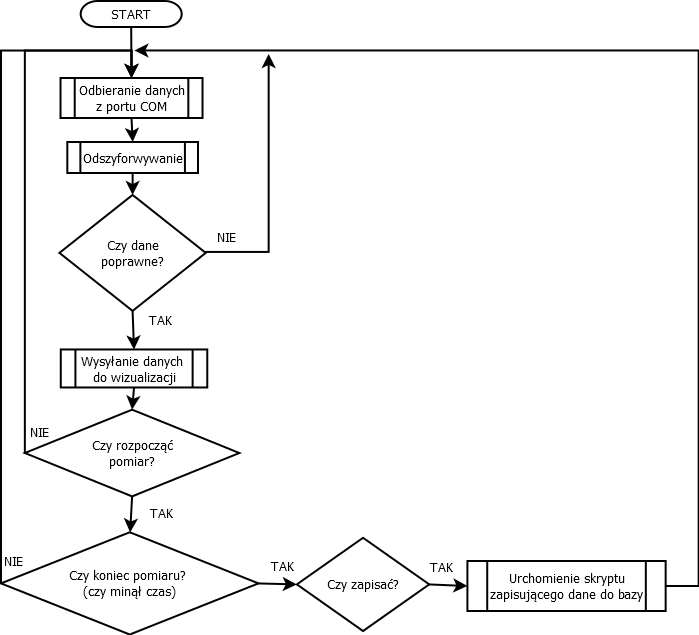
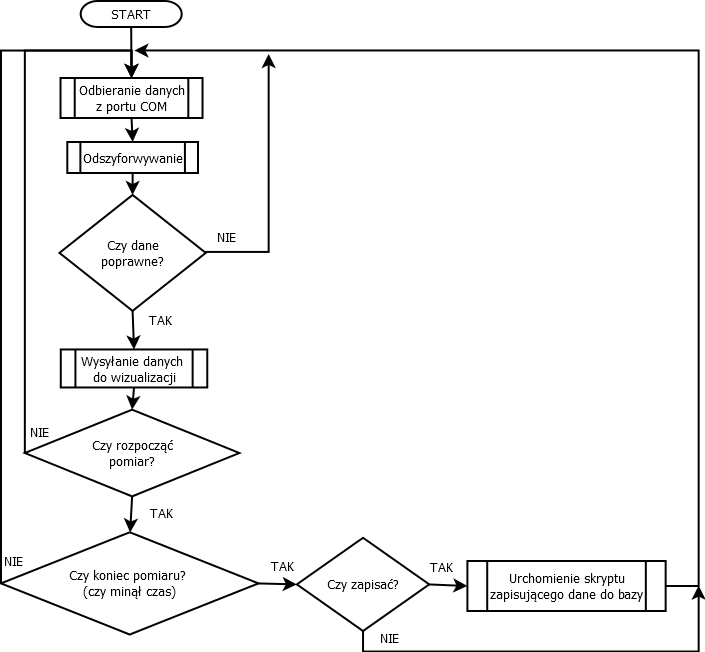
ze schematem programu

Changed region(s): [[0.0, 0.0, 1.0, 1.0], [0.0901, 0.0, 0.1202, 0.0299]]

diff --git a/specyfikacja_zadan.tex b/specyfikacja_zadan.tex
@@ -35,7 +35,7 @@
      \begin{center}
 
     Prowadzący:
-  dr inż. Krzysztof Arent %dorobić inż mgr itd
+  dr inż. Krzysztof Arent
     \end{center}
 
     \vspace*{\stretch{6}}
@@ -51,7 +51,7 @@ Dorota Gidel\\
 Katarzyna Wądrzyk\\
 Ada Weiss\\
 Małgorzata Witka-Jeżewska\\
- }%wpisać indeks
+ }
 \title{SensGlove}
 
 \begin{document}
@@ -189,7 +189,7 @@ Osaba przydzielona do zadania: Dawid Brząkała \\
 Interfejs będzie miał za zadanie odczyt wartości z czujników zgięcia i nacisku z rękawiczki oraz czujników biopotencjałów i przesyłał je w odpowiednim formacie do komputera poprzez kabel USB i wirtualny port COM. Sygnały z czujników zostaną wzmocnione przez układ ze wzmacniaczami operacyjnymi, który również zadba o to, aby wartości sygnałów wyjściowych mieściły się w zakresie pracy przetwornika ADC mikrokontrolera (0 - 3.3V). Zasilanie układu pochodzić będzie ze złącza USB.
 \subsubsection{Schemat ideowy}
 % plik "schemat ideowy interfejsu.png" nie wiem jak się wstawia obrazki
-\begin{figure}[ht!]
+\begin{figure}[h!]
 \centering
 \includegraphics[width=6cm]{schemat_ideowy_interfejsu.png}
 \label{fig:interfejs}
@@ -201,7 +201,7 @@ Interfejs będzie miał za zadanie odczyt wartości z czujników zgięcia i naci
 \subsubsection{Potrzebne elementy}
 
 Lista elementów wraz z przewidywanymi kosztami została przedstawiona w tabeli \ref{tab:interfejs}.
-\begin{table}[ht!]
+\begin{table}[h!]
 \centering
 \caption{ Lista potrzebnych elementów}
 
@@ -223,19 +223,37 @@ razem & & 131.41zł \\\hline
 
 \subsubsection{Kryteria ewaluacji}
 Aby sprawdzić poprawność odczytu sygnałów przez przetworniki ADC czujniki będą symulowane poprzez potencjometry, a uzyskane wyniki przesłane do komputera. Poprawność samej transmisji sprawdzona zostanie poprzez wysyłanie zaprogramowanych wcześniej przykładowych wiadomości i odczytywanie ich w komputerze poprzez program do monitownia portów COM.
+
 \subsection{Program do akwizycji danych}
 Osoby przydzielone do zadania: Ada Weiss, Małgorzata Witka-Jeżewska\\
-Zadaniem programu będzie odczyt danych przesyłanych z mikrokontrolera z portu USB komputera. Użytkownik po uruchomieniu programu będzie miał możliwoć rozpoczęcia procesu akwizycji danych. Dane będą wczytywane przez określony czas (prawdopodobnie 2s jak w dotychczasowych badaniach miosygnałów z przedramienia, co pozwoliłoby na synchronizację tych pomiarów) odszyfrowywane i przesyłane do programu do tworzenia wizualizacji rękawiczki i danych z sensorów z wykorzystaniem socketów. Dodatkowo program będzie umożliwiał użytkownikowi wybór typu ruchu który jest obecnie wykonywany. Każdorazowo po wykonanym pomiarze użytkownik będzie musiał zdecydować czy dany pomiar zapisać czy go odrzucić. W przypadku zapisu dane będą dodawane do bazy pomiarów. Oprogramowanie będzie tworzone w systemie Linux z użyciem Qt kreatora.
+Zadaniem programu będzie odczyt danych przesyłanych z mikrokontrolera z portu USB komputera. Użytkownik po uruchomieniu programu będzie miał możliwoć rozpoczęcia procesu akwizycji danych. Dane będą wczytywane przez określony czas (prawdopodobnie 2s jak w dotychczasowych badaniach miosygnałów z przedramienia, co pozwoliłoby na synchronizację tych pomiarów) odszyfrowywane i przesyłane do programu do tworzenia wizualizacji rękawiczki i danych z sensorów z wykorzystaniem socketów. Dodatkowo program będzie umożliwiał użytkownikowi wybór typu ruchu który jest obecnie wykonywany. Każdorazowo po wykonanym pomiarze użytkownik będzie musiał zdecydować czy dany pomiar zapisać czy go odrzucić. W przypadku zapisu uruchomiony będzie skrypt. Oprogramowanie będzie tworzone w systemie Linux z użyciem Qt kreatora.
 \subsubsection{Format danych}
-Dane zapisywane będą w katalogach oznaczających nazwę ruchu, wewnątrz tworzone będą foldery dla osoby, która wykonała ruch oraz pliki tekstowe, których nazwy będą wskazywały na nr próby, która została zapisana.
+Dane odbierane będą w postaci stringa z zakodowanymi heksadecymalnie wartosciami odczytu z kolejnych czuników. Do sprawdzenia poprawnosci przesyłu wykorzystana będzie suma kontrolna.
 \subsubsection{Kryteria ewaluacji}
 Symulacja danych wejciowych: \\
 Zaprogramujemy płytkę STM32L476G Discovery tak aby nadawała przykładowe dane w ustalonym przez nas formacie i podłączymy ją do USB komputera.  \\
 Poprawnosc danych wyjsciowych:\\
 Wykorzystamy również przykładowy program klient odbierający dane wysyłane z napisanego programu (serwera) w celu ocenienia poprawnosci przesyłania danych.\\
-Należy również sprawdzić poprawnoć danych zapisywanych do plików tekstowych będących podstawą do stworzenia bazy ruchów.
+
 \subsubsection{Schemat ideowy}
-%diagram UML, klasy to ja nie wiem czy już się da cos okreslic
+\begin{figure}[h!]
+\label{fig:program}
+\centering
+\includegraphics[width=10cm]{programdia.png}
+\caption{Schemat ideowy działania programu}
+\end{figure}
+\subsubsection{Podział zadań}
+
+Ada Weiss:
+\begin{itemize}
+\item odczytywanie danych z portu COM
+\item przesyłanie danych za pomocą socketu
+\end{itemize}
+Małgorzata Witka-Jeżewska:
+\begin{itemize}
+    \item stworzenie odpowiednich okien i odpowiednich metod z nimi stowarzyszonych
+\end{itemize}
+
 
 % potrzebne biblioteki
 % schematy ideowe
